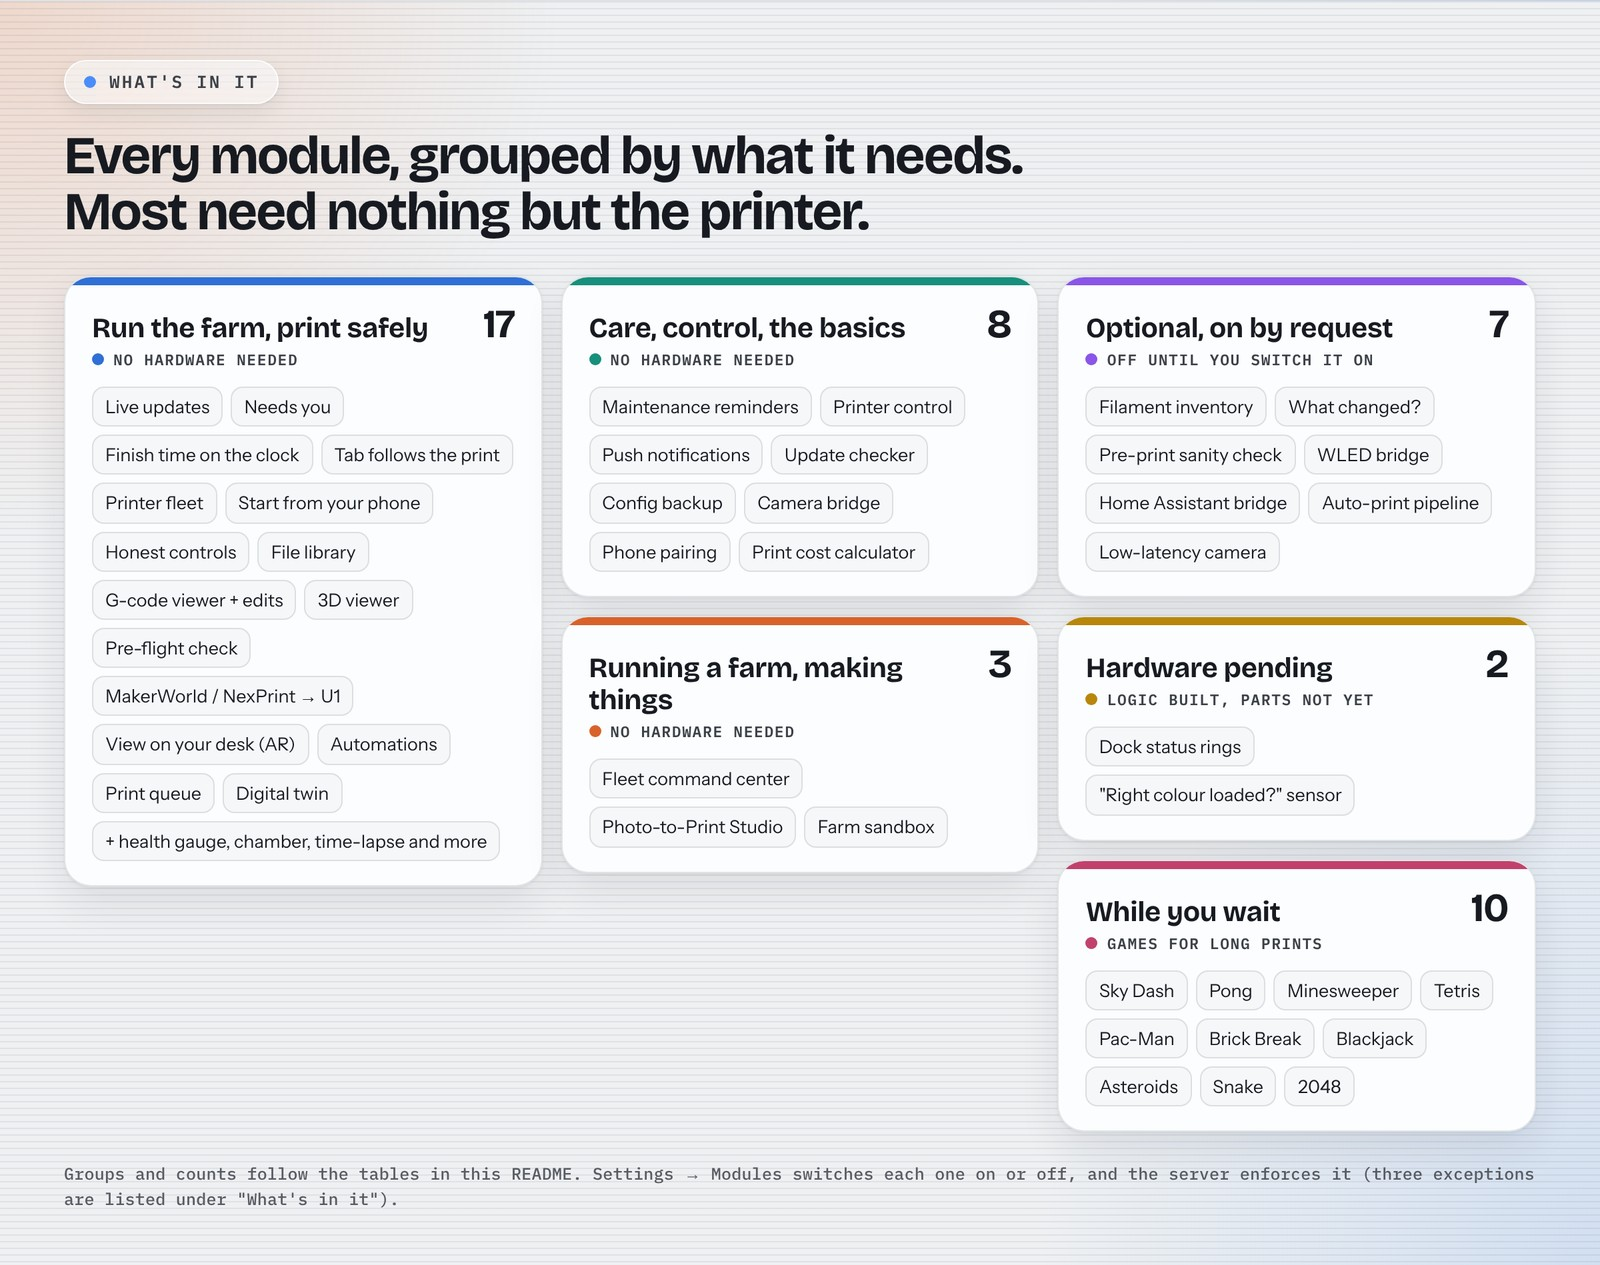
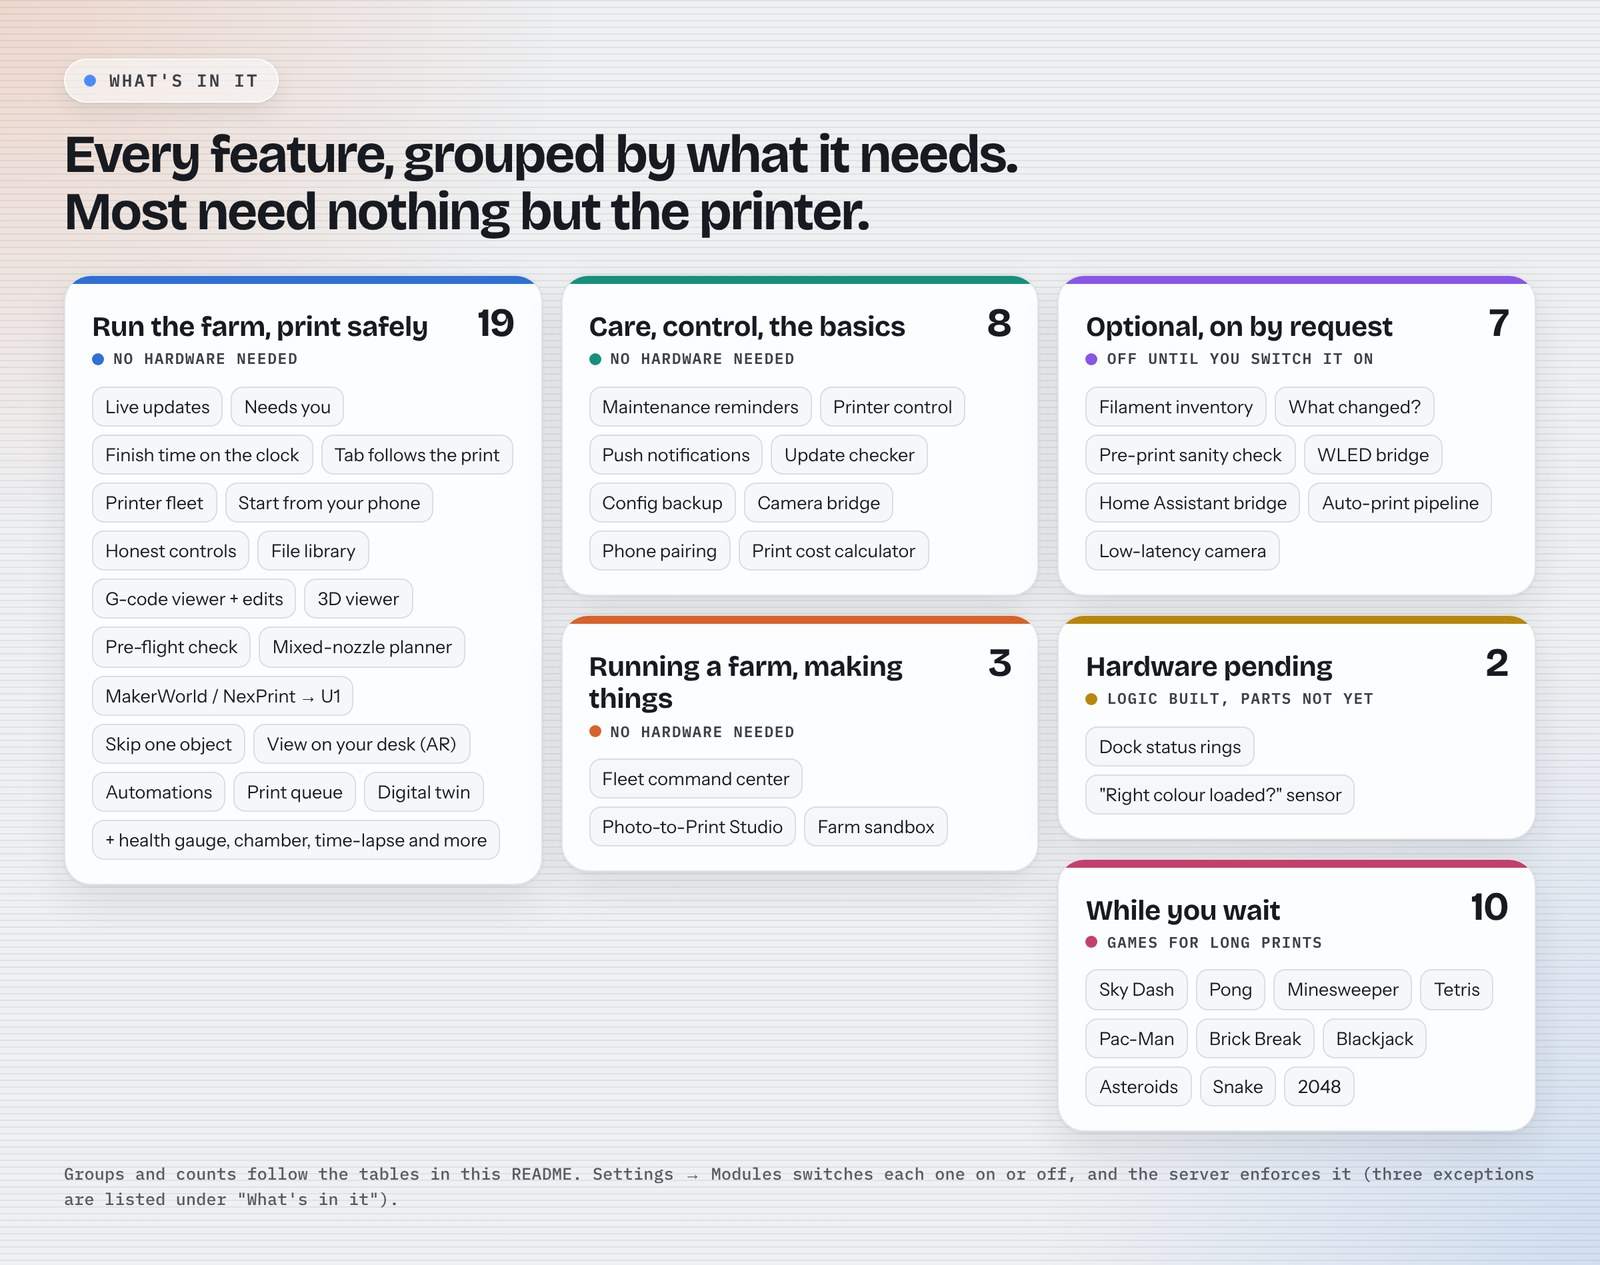
Update the What's in it board: 19 features in the first group, and call them features
The board omitted the mixed-nozzle planner and skip-one-object, and said 'module' for things that are not all modules (the registry has 29).

Claude-Session: https://claude.ai/code/session_01XATun5MYN3bE1Y6zCKejTF

diff --git a/tools/readme-images/boards.html b/tools/readme-images/boards.html
@@ -272,10 +272,10 @@ h2{font:700 40px/1.06 "Bricolage Grotesque";letter-spacing:-.03em;margin-top:18p
 <!-- ============ 4. Feature map ============ -->
 <section class="board" id="b-features">
   <span class="eyebrow"><i></i>What's in it</span>
-  <h2>Every module, grouped by what it needs. Most need nothing but the printer.</h2>
+  <h2>Every feature, grouped by what it needs. Most need nothing but the printer.</h2>
   <div class="groups">
-    <div class="group" style="--c:var(--g-live)"><header><h3>Run the farm, print safely</h3><span class="count">17</span></header><span class="needs"><i></i>No hardware needed</span>
-      <ul><li>Live updates</li><li>Needs you</li><li>Finish time on the clock</li><li>Tab follows the print</li><li>Printer fleet</li><li>Start from your phone</li><li>Honest controls</li><li>File library</li><li>G-code viewer + edits</li><li>3D viewer</li><li>Pre-flight check</li><li>MakerWorld / NexPrint → U1</li><li>View on your desk (AR)</li><li>Automations</li><li>Print queue</li><li>Digital twin</li><li>+ health gauge, chamber, time-lapse and more</li></ul></div>
+    <div class="group" style="--c:var(--g-live)"><header><h3>Run the farm, print safely</h3><span class="count">19</span></header><span class="needs"><i></i>No hardware needed</span>
+      <ul><li>Live updates</li><li>Needs you</li><li>Finish time on the clock</li><li>Tab follows the print</li><li>Printer fleet</li><li>Start from your phone</li><li>Honest controls</li><li>File library</li><li>G-code viewer + edits</li><li>3D viewer</li><li>Pre-flight check</li><li>Mixed-nozzle planner</li><li>MakerWorld / NexPrint → U1</li><li>Skip one object</li><li>View on your desk (AR)</li><li>Automations</li><li>Print queue</li><li>Digital twin</li><li>+ health gauge, chamber, time-lapse and more</li></ul></div>
     <div class="group" style="--c:var(--g-ready)"><header><h3>Care, control, the basics</h3><span class="count">8</span></header><span class="needs"><i></i>No hardware needed</span>
       <ul><li>Maintenance reminders</li><li>Printer control</li><li>Push notifications</li><li>Update checker</li><li>Config backup</li><li>Camera bridge</li><li>Phone pairing</li><li>Print cost calculator</li></ul></div>
     <div class="group" style="--c:var(--g-farm)"><header><h3>Running a farm, making things</h3><span class="count">3</span></header><span class="needs"><i></i>No hardware needed</span>

diff --git a/README.md b/README.md
@@ -114,7 +114,7 @@ changed, even when you start from your phone.
 
 ## What's in it
 
-![Every module grouped by what it needs: 17 for running the farm and printing safely, 8 for care, control and the basics, 3 for farms and making, 7 optional, 2 waiting on hardware, and 10 games](docs/img/explainer-whats-in-it.jpg)
+![Every feature grouped by what it needs: 19 for running the farm and printing safely, 8 for care, control and the basics, 3 for farms and making, 7 optional, 2 waiting on hardware, and 10 games](docs/img/explainer-whats-in-it.jpg)
 
 Every screenshot in this section comes from the built-in simulated farm (the **Demo data** switch), so every figure in them is simulated. The yellow banner and the **SIMULATED** badge in the app say the same.
 
